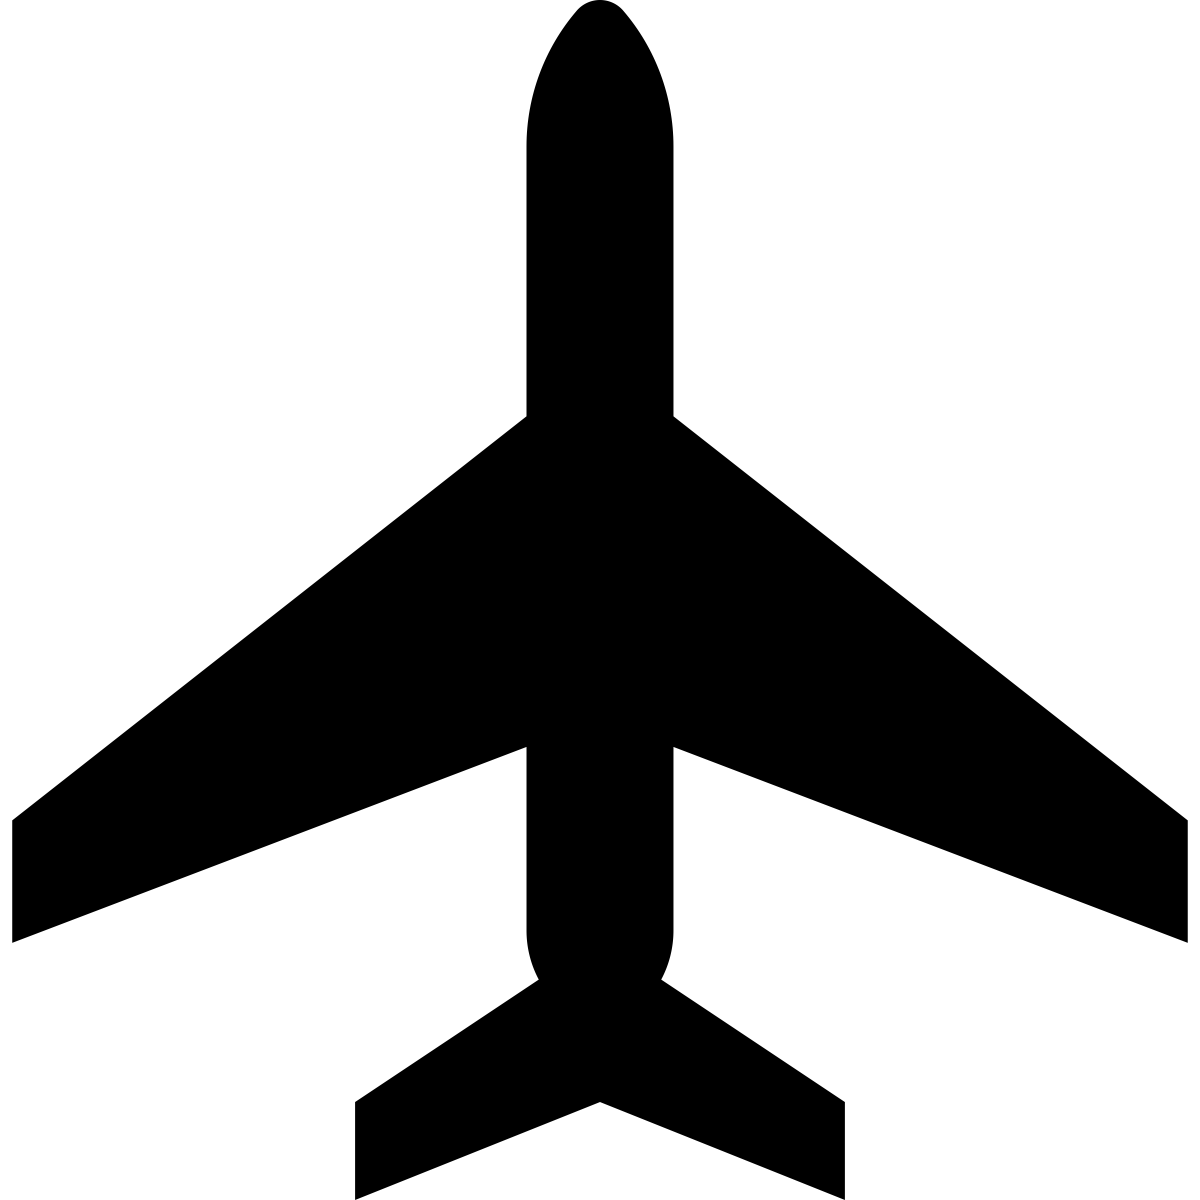
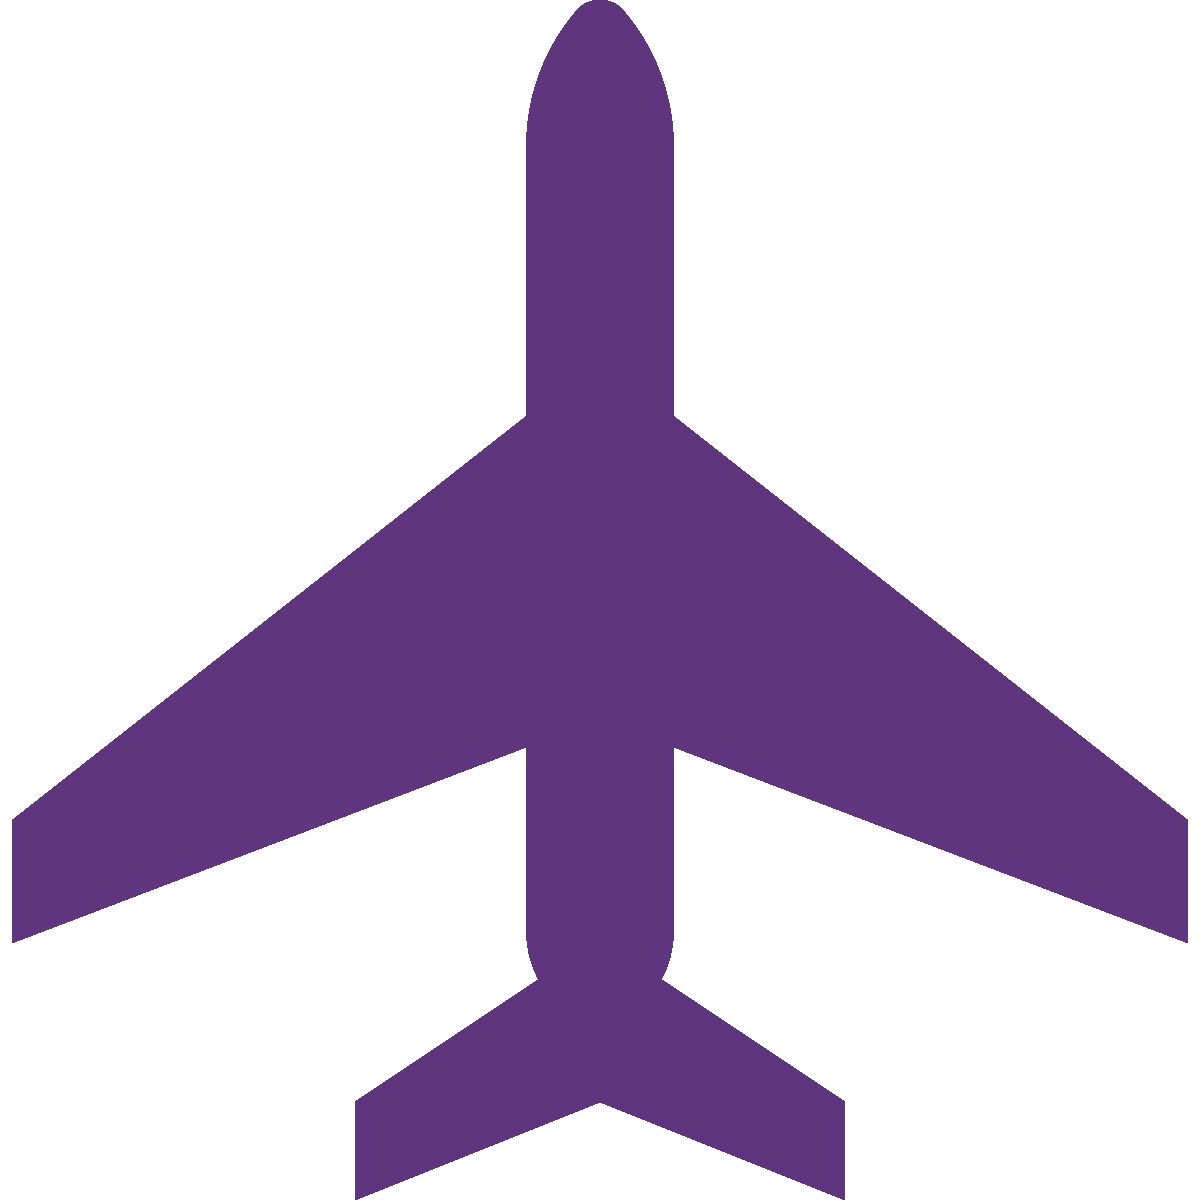
[Save] Styling amenities and attractions.

diff --git a/client/assets/css/index.css b/client/assets/css/index.css
@@ -139,6 +139,19 @@ small {
   margin-left:20px;
 }
 
+.attractions-container li,
+.amenities-container li {
+  cursor:pointer;
+}
+
+.amenities-container .activeCategory li {
+  font-size: 20px;
+}
+
+.amenities-container .activeCategory img {
+  width: 20px;
+}
+
 /*.details-container .attractions,
 .details-container .amenities {
   height:200px;
@@ -153,28 +166,14 @@ small {
   border-right:1px solid #000;
   margin-left:30px;
   text-align: left;
-}*/
-
-.attractions-container li,
-.amenities-container li {
-  cursor:pointer;
 }
 
-.amenities-container .activeCategory li {
-  font-size: 20px;
-}
-
-.amenities-container .activeCategory img {
-  width: 20px;
-}
-
-/*.amenities-container .activeCategory span,
+.amenities-container .activeCategory span,
 .attractions-container .activeCategory span {
   display: inline-block;
   width:132px;
-}*/
 
-/*.amenities-container .activeCategory::after,
+.amenities-container .activeCategory::after,
 .attractions-container .activeCategory::after {
   content: '';
   position: absolute;
@@ -453,6 +452,11 @@ small {
    border-right:2px solid #5F327C;
 }
 
+.amenities-container h4 {
+  margin-left:0;
+  color:#5F327C;
+}
+
 .charts-container ul {
   margin:15px 10px 10px -50px;
   padding-right:20px;
@@ -465,6 +469,7 @@ small {
 }
 
 .charts-container li h5 {
+  display:block;
   font-weight: bold;
 }
 
@@ -486,6 +491,10 @@ small {
   text-align: center;
 }
 
+.bar-chart-container h4 {
+  display: block;
+}
+
 .bar-chart-container img,
 .pie-chart-container img{
   display: inline-block;
@@ -500,6 +509,12 @@ small {
   margin-top: 30px;
 }
 
+.amenities-container h4,
+.attractions-container h4 {
+  display:block;
+  margin-left:0;
+}
+
 .amenities-categories ul {
   margin-left:0;
 }
@@ -509,7 +524,7 @@ small {
   margin: 20px -30px;
   text-align: left;
   font-size: 16px;
-  color:#5F327C;
+  color:#000;
 }
 
 .amenities-categories img {

diff --git a/client/app/charts/chartsController.js b/client/app/charts/chartsController.js
@@ -15,9 +15,9 @@ angular.module('myApp.charts', [])
     var demographicsObj = Charts.getDemographicsObj();
     console.log('inside setStrings:',demographicsObj);
     if(Object.keys(demographicsObj).length > 0) {
-      chart.incomeString = demographicsObj.incomeString;
-      chart.sqftString = demographicsObj.sqftString;
-      chart.yearBuiltString = demographicsObj.yearBuiltString;
+      chart.incomeString = demographicsObj.incomeString || chart.incomeString;
+      chart.sqftString = demographicsObj.sqftString || chart.sqftString;
+      chart.yearBuiltString = demographicsObj.yearBuiltString || chart.yearBuiltString;
     }
   };
 
@@ -46,7 +46,7 @@ angular.module('myApp.charts', [])
 
     setTimeout(function() {
       console.log('chart.values:',chart.incomeString, chart.sqftString, chart.yearBuiltString);
-      console.log('chart.parsedValues:',parseInt(chart.incomeString));
+      console.log('chart.parsedValues:',parseInt(chart.incomeString),parseInt(chart.sqftString),parseInt(chart.yearBuiltString));
       if(flags[0]) {
         var c1 = new CountUp('countup1', 0, parseInt(chart.incomeString), 0, 2.5, options);
         c1.start();
@@ -56,7 +56,9 @@ angular.module('myApp.charts', [])
         c2.start();
       }
       if(flags[2]) {
-        var c3 = new CountUp('countup3', 0, parseInt(chart.yearBuiltString), 0, 2.5, options);
+        var yearOption = options;
+        yearOption.separator = '';
+        var c3 = new CountUp('countup3', 0, parseInt(chart.yearBuiltString), 0, 2.5, yearOption);
         c3.start();
       }
     }, 20);

diff --git a/client/app/services/servicesTemplate.html b/client/app/services/servicesTemplate.html
@@ -1,18 +1,27 @@
 <!-- Local Services -->
 <div class="col-md-12 amenities-container" ng-init="details.currentSpotsToDisplay = []; details.stateSwitch('amenities');">
-  <!-- <hr> -->
+  <img src="assets/images/messages/AmenityMessage.png" alt="default-msg">
   <div class="col-md-4 amenities-categories">
+    <h4>Categories</h4>
+    <hr>
     <ul ng-repeat="service in details.currentNeighborhood.services">
       <li class="category-container" ng-click="details.displayMarkers(service); details.selectCategory($index); details.displayAmenitiesOrAttractions(service);" ng-class="{'activeCategory next': $index === details.selectedCategory}">
-        <img ng-src="{{details.getAmenitiesIcon(service[0])}}" alt="">
+        <img ng-src="{{details.getAmenitiesIcon(service[0])}}" alt="icon for amenity category">
         <span>{{service[0].displayName}}</span>
       </li>
     </ul>
   </div>
 
   <div class="col-md-8 amenities-list">
+    <h4>Listings</h4>
+    <hr>
     <ul ng-repeat="spot in details.currentSpotsToDisplay">
-      <li class="spot" ng-click="details.toggleTooltip(details.currentSpotsToDisplay[$index]);">{{spot.name}}</li>
+      <li class="spot" ng-click="details.toggleTooltip(details.currentSpotsToDisplay[$index]);">
+        <span>{{spot.name}}</span>
+        <img src="assets/images/mapmarkergray.png" alt="">
+        <div>Address</div>
+        <div></div>
+      </li>
     </ul>
   </div>
 </div>

diff --git a/client/app/details/detailsTemplate.html b/client/app/details/detailsTemplate.html
@@ -3,7 +3,7 @@
   <div class="slideshow" >
    <!-- neighborhood header -->
     <span class="profile-buttons neighborhood-name">{{main.currentNeighborhood.name}}</span>
-    <span class="profile-buttons back-button"><a style="color:#fff" ui-sref="main.results"> Back&#60;</a></span>
+    <span class="profile-buttons back-button"><a style="color:#fff" ui-sref="main.results"> Back </a></span>
     <slick dots=false infinite=true speed=300 autoplaySpeed=3000 pauseOnHover=true swipe=true variableWidth=true slides-to-show=4 autoplay=true touch-move=true slides-to-scroll=4 arrows=true>
       <!-- <div ng-if="details.picturesArr.length === 0" class="instagram-default-background">&nbsp; -->
         <div ng-repeat="pic in main.picturesArr">

diff --git a/client/app/attractions/attractionsTemplate.html b/client/app/attractions/attractionsTemplate.html
@@ -1,6 +1,7 @@
 <!-- Attractions -->
 <div class="col-md-12 attractions-container" ng-init="details.currentSpotsToDisplay = []; details.stateSwitch('attractions');">
   <div class="col-md-4 amenities-categories">
+
     <ul ng-repeat="attraction in details.currentNeighborhood.attractions">
       <li class="category-container" ng-click="details.displayMarkers(attraction); details.selectCategory($index); details.displayAmenitiesOrAttractions(attraction);" ng-class="{'activeCategory': $index === details.selectedCategory}">
         <img ng-src="{{details.getAttractionsIcon(attraction[0])}}" alt="">

diff --git a/server/server.js b/server/server.js
@@ -87,8 +87,8 @@ app.post('/api/getNeighbors', function (req, res) {
           .then(function (neighborhood) {
             if(neighborhoodObject[neighborhood].country === 'USA') {
               return Q.all([
-                getRentEstimate(neighborhood),
-                getDemography(neighborhood)
+                // getRentEstimate(neighborhood),
+                // getDemography(neighborhood)
               ]);
             }
             else { return 'Other Country'; }

diff --git a/client/index.html b/client/index.html
@@ -33,7 +33,7 @@
 <!-- start footer section -->
   <footer class="footer">
     <ul>
-      <li>&copy; Turf | </li>
+      <li>&copy; Turf 2015| </li>
       <li>Raghav Abboy</li>
         <a class="icon-link" href="https://www.linkedin.com/in/raghavabboy"><i class="fi-social-linkedin"></i>
         </a>
